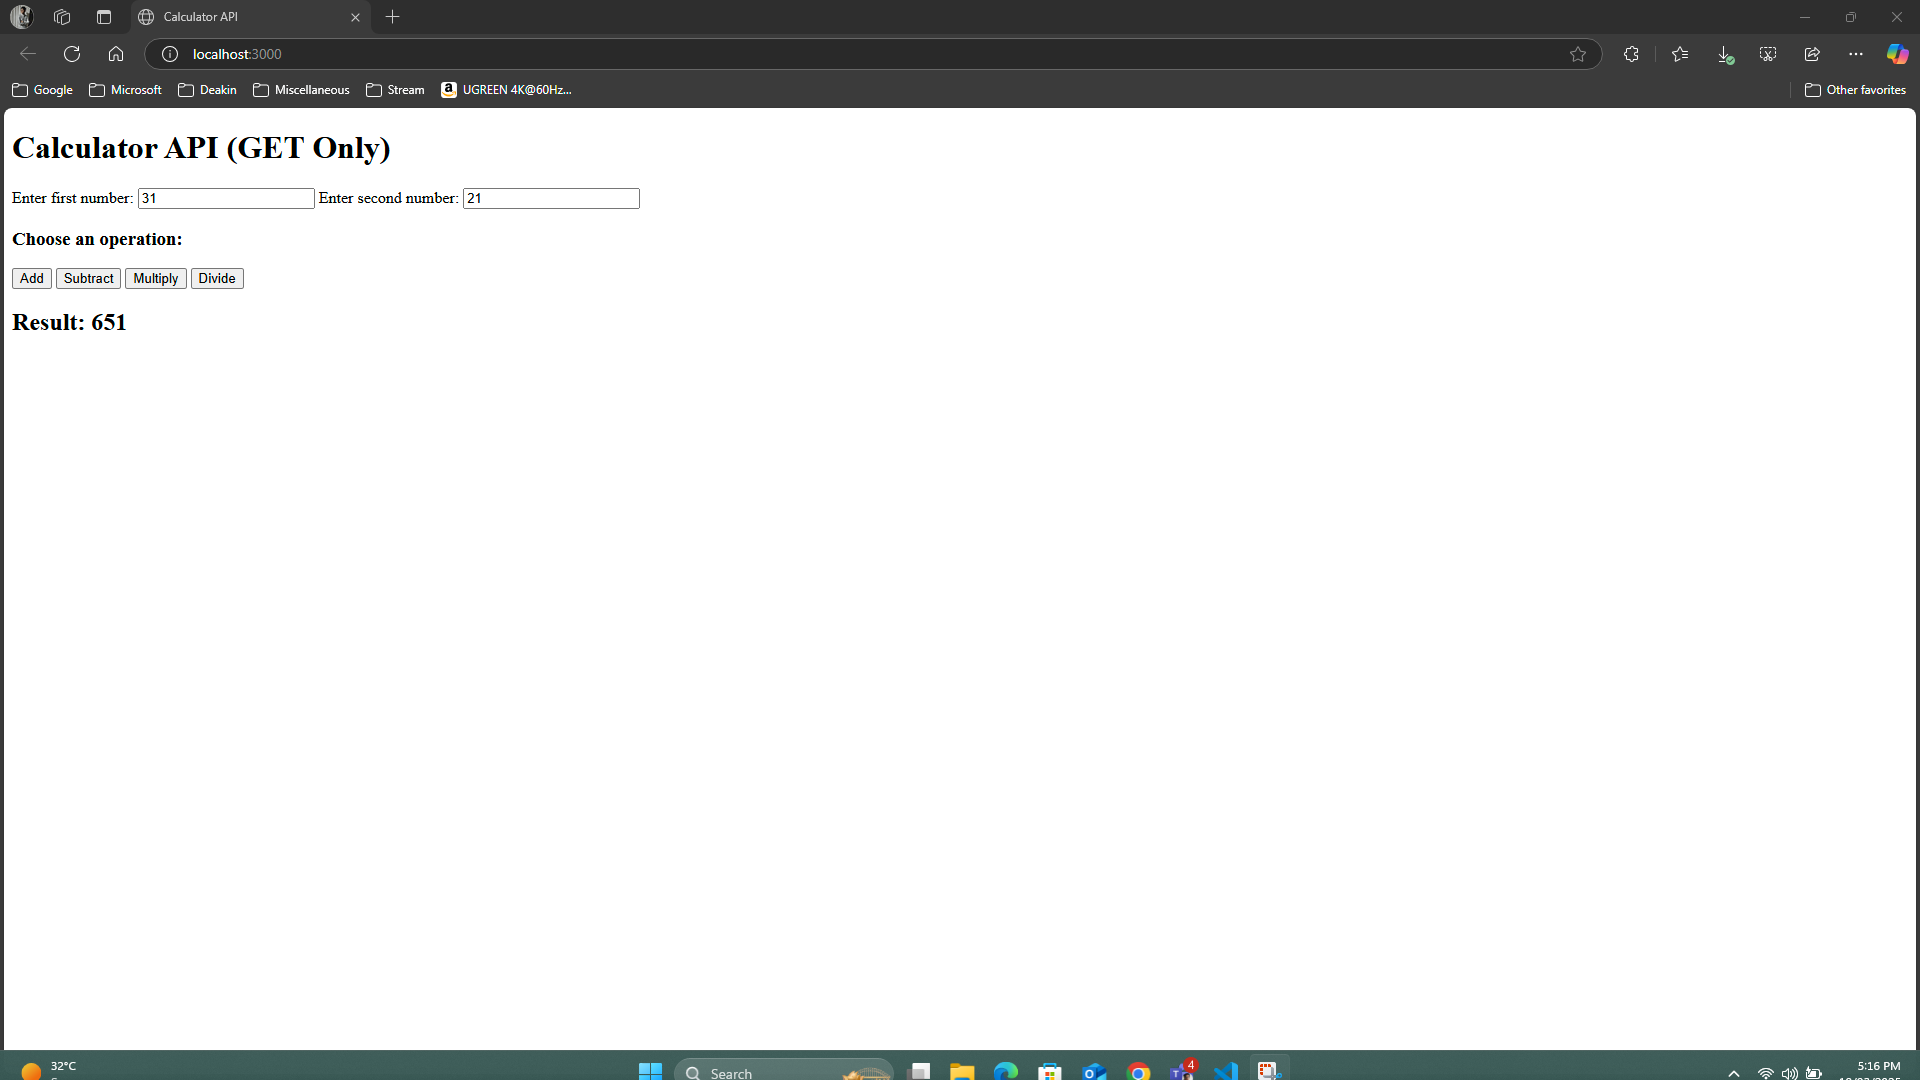
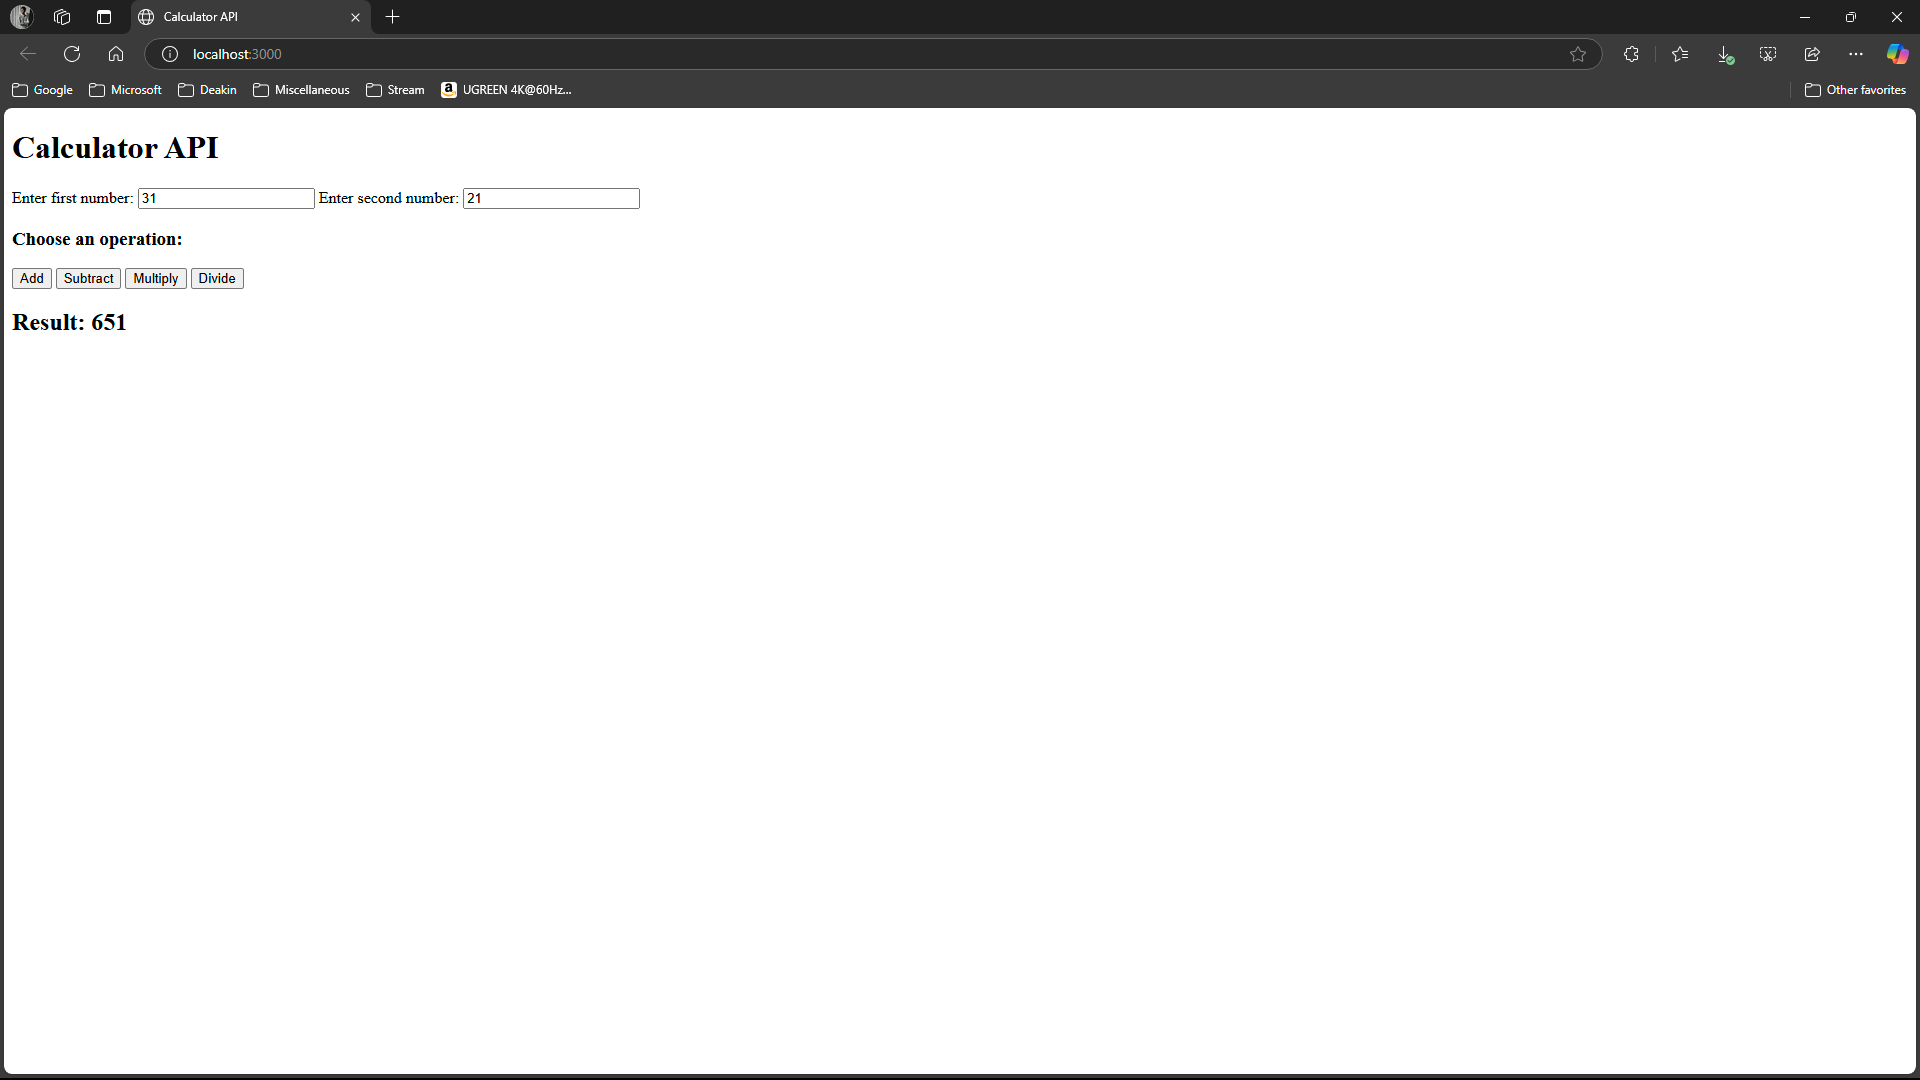
Updating

diff --git a/Week 2/Part 2/public/index.html b/Week 2/Part 2/public/index.html
@@ -16,7 +16,7 @@
   </script>
 </head>
 <body>
-  <h1>Calculator API (GET Only)</h1>
+  <h1>Calculator API</h1>
   
   <label for="num1">Enter first number:</label>
   <input type="text" id="num1" required>
